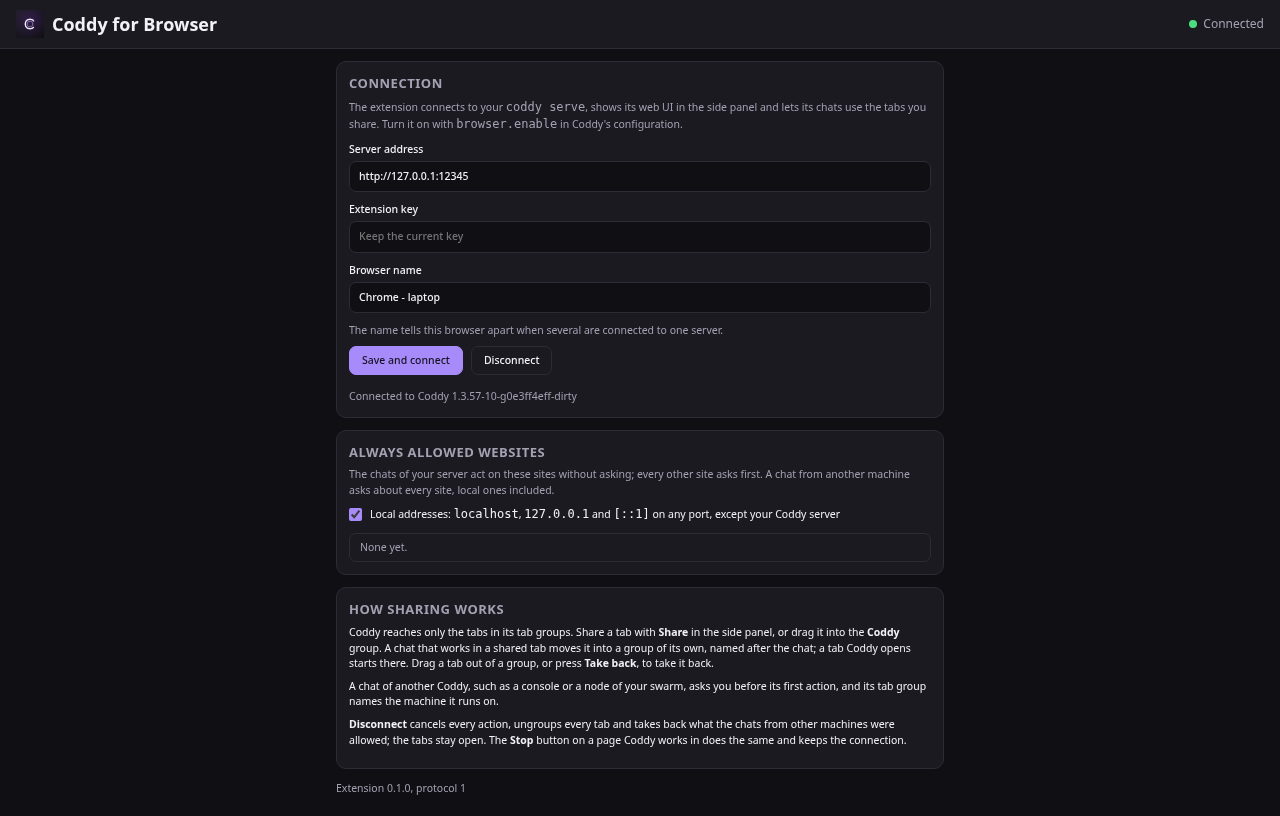
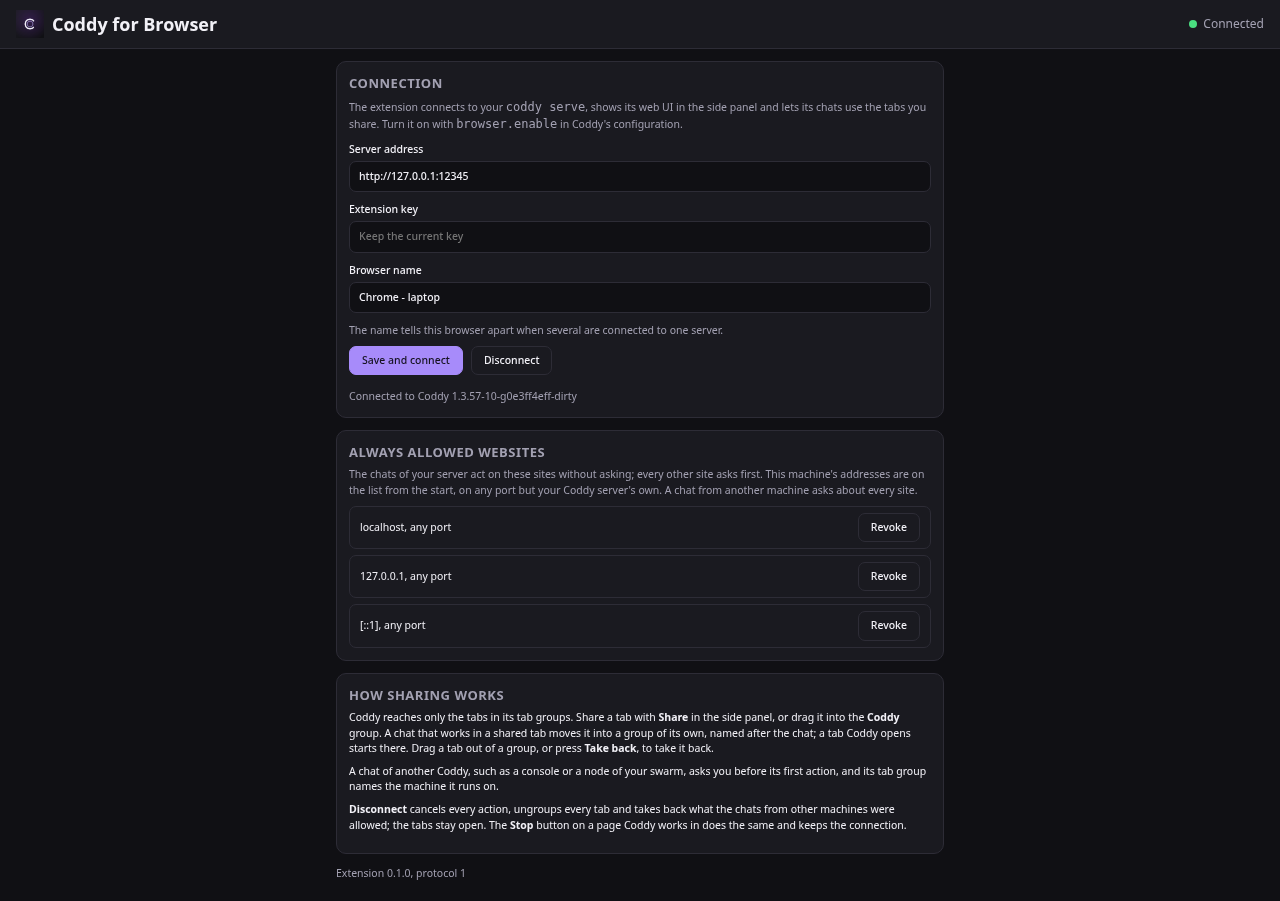
feat: this machine's addresses are entries of the always-allowed list
The switch for local addresses goes. Instead the list of sites allowed always
starts with "*://localhost:*", "*://127.0.0.1:*" and "*://[::1]:*" (any
scheme and port of that host), added once and revoked like any other entry,
which stays revoked. A host entry still leaves out the Coddy server's own
port under every local name; an entry naming that very origin covers it.

diff --git a/src/approvals.js b/src/approvals.js
@@ -5,7 +5,7 @@
 // questions are asked in the browser, never in a page, and a page cannot
 // answer them.
 
-import { granted, grant, revoke } from "./policy.js";
+import { granted, grant, revoke, LOCAL_SITES } from "./policy.js";
 
 export const TIMEOUT_MS = 110000;
 
@@ -22,7 +22,7 @@ export class Approvals {
     this.sessionStore = sessionStore;
     this.onChange = onChange;
     this.timeoutMs = timeoutMs;
-    this.grants = { always: [], local: true, chats: {}, remote: [] };
+    this.grants = { always: [], chats: {}, remote: [] };
     this.pending = new Map();
     this.nextID = 1;
   }
@@ -30,19 +30,21 @@ export class Approvals {
   async load() {
     const kept = (await this.store.get()) || {};
     const session = this.sessionStore === this.store ? kept : (await this.sessionStore.get()) || {};
+    // The local sites go on the list once; a revoked one stays revoked.
+    const seeded = Boolean(kept.seeded);
     this.grants = {
-      always: kept.always || [],
-      local: kept.local !== false,
+      always: seeded ? kept.always || [] : [...new Set([...(kept.always || []), ...LOCAL_SITES])],
       chats: session.chats || {},
       remote: session.remote || [],
     };
+    if (!seeded) await this.persist();
     this.loaded = true;
   }
 
   // persist writes the grants where each kind lives.
   async persist() {
-    if (this.sessionStore === this.store) return this.store.set(this.grants);
-    await this.store.set({ always: this.grants.always, local: this.grants.local });
+    if (this.sessionStore === this.store) return this.store.set({ ...this.grants, seeded: true });
+    await this.store.set({ always: this.grants.always, seeded: true });
     await this.sessionStore.set({ chats: this.grants.chats, remote: this.grants.remote });
   }
 
@@ -144,12 +146,6 @@ export class Approvals {
     const p = this.pending.get(id);
     if (!p) throw new Error("The question was already answered or expired");
     await p.decide(choice);
-  }
-
-  // setLocal turns on or off the local addresses allowed without asking.
-  async setLocal(on) {
-    this.grants = { ...this.grants, local: Boolean(on) };
-    await this.persist();
   }
 
   async revoke(origin) {

diff --git a/src/policy.js b/src/policy.js
@@ -55,17 +55,36 @@ export function isLocalOrigin(origin) {
   return host === "localhost" || host.endsWith(".localhost") || host === "[::1]" || /^127(\.\d{1,3}){3}$/.test(host);
 }
 
+// LOCAL_SITES start on the list of sites allowed always: this machine under
+// the names people use for it, any scheme and port. They are revoked like any
+// other entry, and the list remembers it.
+export const LOCAL_SITES = ["*://localhost:*", "*://127.0.0.1:*", "*://[::1]:*"];
+
+// covers says whether an "always" entry takes in origin: the origin itself, or
+// a "*://<host>:*" entry for every port of that host.
+export function covers(entry, origin) {
+  if (entry === origin) return true;
+  const host = /^\*:\/\/(.+):\*$/.exec(entry)?.[1];
+  if (!host) return false;
+  try {
+    return new URL(origin).hostname === host;
+  } catch {
+    return false;
+  }
+}
+
 // Grants say which websites Coddy may act on without asking: always, or for
 // the rest of one chat (until the browser restarts).
 // granted reports whether origin may be acted on for the chat. An "always"
-// covers the chats of the connected server, never a remote one, and so do
-// local addresses while grants.local is on - all but home, the Coddy server
-// itself, whose web UI a chat must not drive without the person's word.
+// covers the chats of the connected server, never a remote one. A host entry
+// leaves out home, the Coddy server itself, under every local name of its
+// port: its web UI approves a chat's own requests, so only an entry naming
+// that very origin lets a chat act there without the person's word.
 export function granted(origin, sessionId, grants, { remote = false, home = "" } = {}) {
   if ((grants.chats[sessionId] || []).includes(origin)) return true;
   if (remote) return false;
   if (grants.always.includes(origin)) return true;
-  return grants.local !== false && isLocalOrigin(origin) && !sameServer(origin, home);
+  return grants.always.some((entry) => covers(entry, origin)) && !sameServer(origin, home);
 }
 
 // sameServer says whether origin reaches the server at home: the same origin,

diff --git a/src/options.js b/src/options.js
@@ -1,5 +1,12 @@
 import { request, el, showError, statusClass } from "./ui.js";
 
+// siteLabel reads an entry of the list: an origin as it is, a host entry
+// ("*://localhost:*") as the host on any port.
+function siteLabel(entry) {
+  const host = /^\*:\/\/(.+):\*$/.exec(entry)?.[1];
+  return host ? `${host}, any port` : entry;
+}
+
 const $ = (id) => document.getElementById(id);
 let filled = false;
 let allowed = "";
@@ -22,7 +29,6 @@ async function refresh() {
   }
   $("server").textContent = s.server ? `Connected to Coddy ${s.server.version || ""}`.trim() : "";
   $("version").textContent = `Extension ${s.version}, protocol 1`;
-  $("local").checked = s.local !== false;
   const next = JSON.stringify(s.allowed);
   if (next !== allowed) {
     allowed = next;
@@ -34,7 +40,7 @@ async function refresh() {
               request({ type: "revoke", origin })
                 .then(refresh)
                 .catch(showError);
-            return el("li", {}, el("span", {}, origin), b);
+            return el("li", {}, el("span", { title: origin }, siteLabel(origin)), b);
           })
         : [el("li", { class: "muted" }, "None yet.")]),
     );
@@ -53,10 +59,6 @@ $("connect").onsubmit = async (event) => {
     showError(e);
   }
 };
-$("local").onchange = () =>
-  request({ type: "setLocal", on: $("local").checked })
-    .then(refresh)
-    .catch(showError);
 $("disconnect").onclick = () =>
   request({ type: "disconnect" })
     .then(refresh)

diff --git a/src/options.html b/src/options.html
@@ -44,16 +44,10 @@
       <section class="card">
         <h2>Always allowed websites</h2>
         <p class="muted">
-          The chats of your server act on these sites without asking; every other site asks first. A chat from another
-          machine asks about every site, local ones included.
+          The chats of your server act on these sites without asking; every other site asks first. This machine's
+          addresses are on the list from the start, on any port but your Coddy server's own. A chat from another machine
+          asks about every site.
         </p>
-        <label class="check">
-          <input id="local" type="checkbox" />
-          <span
-            >Local addresses: <code>localhost</code>, <code>127.0.0.1</code> and <code>[::1]</code> on any port, except
-            your Coddy server</span
-          >
-        </label>
         <ul id="allowed" class="list"></ul>
       </section>
       <section class="card">

diff --git a/src/background.js b/src/background.js
@@ -206,7 +206,6 @@ async function state(msg = {}) {
     chats: groups.chats(),
     pending: approvals.list(),
     allowed: approvals.grants.always,
-    local: approvals.grants.local,
     version,
   };
 }
@@ -260,9 +259,6 @@ const handlers = {
   },
   async revoke({ origin }) {
     await approvals.revoke(origin);
-  },
-  async setLocal({ on }) {
-    await approvals.setLocal(on);
   },
 };
 

diff --git a/src/ui.css b/src/ui.css
@@ -149,16 +149,6 @@ label {
   margin-bottom: 10px;
   font-weight: 500;
 }
-label.check {
-  display: flex;
-  align-items: center;
-  gap: 8px;
-  font-weight: 400;
-}
-label.check input {
-  margin: 0;
-  accent-color: var(--accent);
-}
 input {
   font: inherit;
   padding: 7px 9px;

diff --git a/README.ru.md b/README.ru.md
@@ -62,8 +62,9 @@ flowchart TB
 - **сайты одобряете вы.** Перед первым действием на сайте небольшое окно расширения спрашивает, разрешить ли его для
   этого чата, разрешить всегда или отказать. "Всегда" действует только для чатов домашнего сервера, а чат с другой
   машины спрашивает про каждый новый сайт. Страница не может ответить на эти вопросы за вас. Страницы на вашей
-  машине (`localhost`, `127.0.0.1`, `[::1]`, любой порт) открываются без вопроса, кроме самого сервера Coddy, в
-  веб-интерфейсе которого одобряются запросы чатов. Отключить это можно на странице настроек;
+  машине (`localhost`, `127.0.0.1`, `[::1]`, любой порт) с самого начала стоят в списке сайтов, разрешённых всегда,
+  кроме самого сервера Coddy, в веб-интерфейсе которого одобряются запросы чатов. Убрать их из списка можно, как
+  любой другой сайт;
 - **остановить можно в любой момент.** Кнопка Stop на странице, где работает Coddy, отменяет все действия,
   распускает все группы и отзывает разрешения чатов с других машин, а вкладки остаются открытыми. **Disconnect** на
   странице настроек делает то же самое и закрывает подключение.

diff --git a/README.md b/README.md
@@ -58,8 +58,8 @@ flowchart TB
 - **You approve websites.** Before the first action on a website, a small window of the extension asks: allow for
   this chat, always allow, or decline. "Always" covers the chats of the home server only: a chat from another
   machine asks for every new website. A page cannot answer these questions for you. Pages on your own machine
-  (`localhost`, `127.0.0.1`, `[::1]`, any port) go ahead without a question, except the Coddy server itself, whose
-  web UI approves the chats' own requests; the settings page switches that off.
+  (`localhost`, `127.0.0.1`, `[::1]`, any port) are on the list of sites allowed always from the start, except the
+  Coddy server itself, whose web UI approves the chats' own requests; revoke them there like any other site.
 - **You can stop it.** The Stop button on the page Coddy works in cancels every action, ungroups every tab and takes
   back what the chats from other machines were allowed; the tabs stay open. **Disconnect** on the settings page does
   the same and closes the connection.
